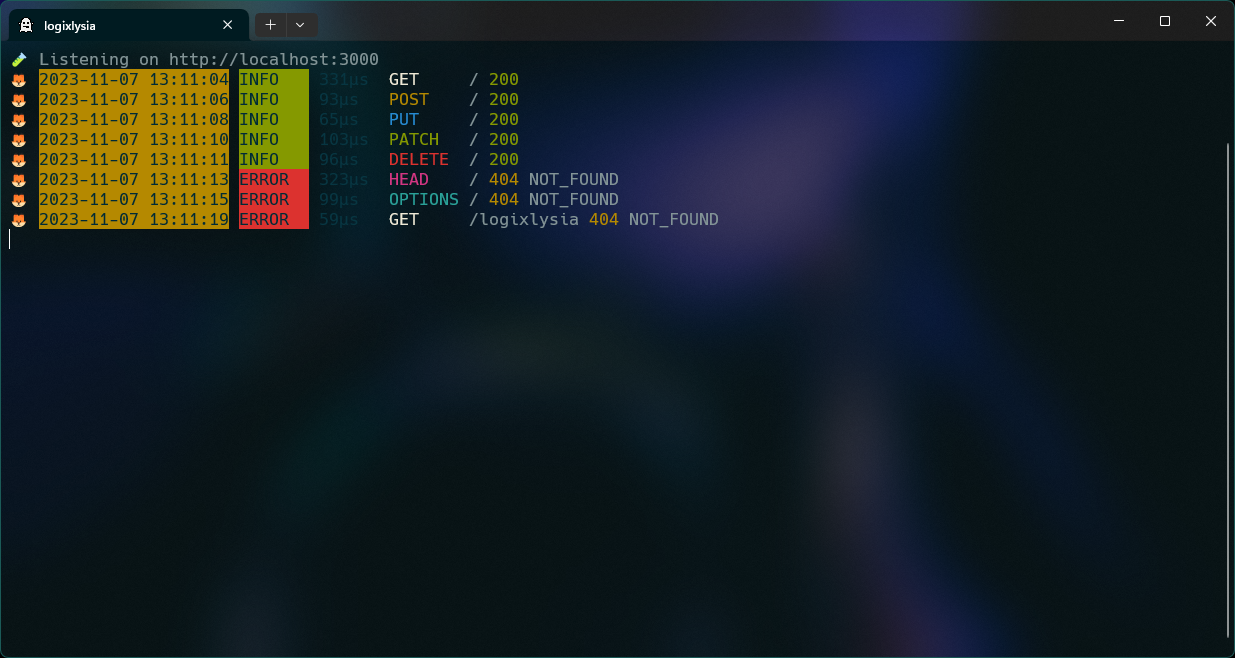
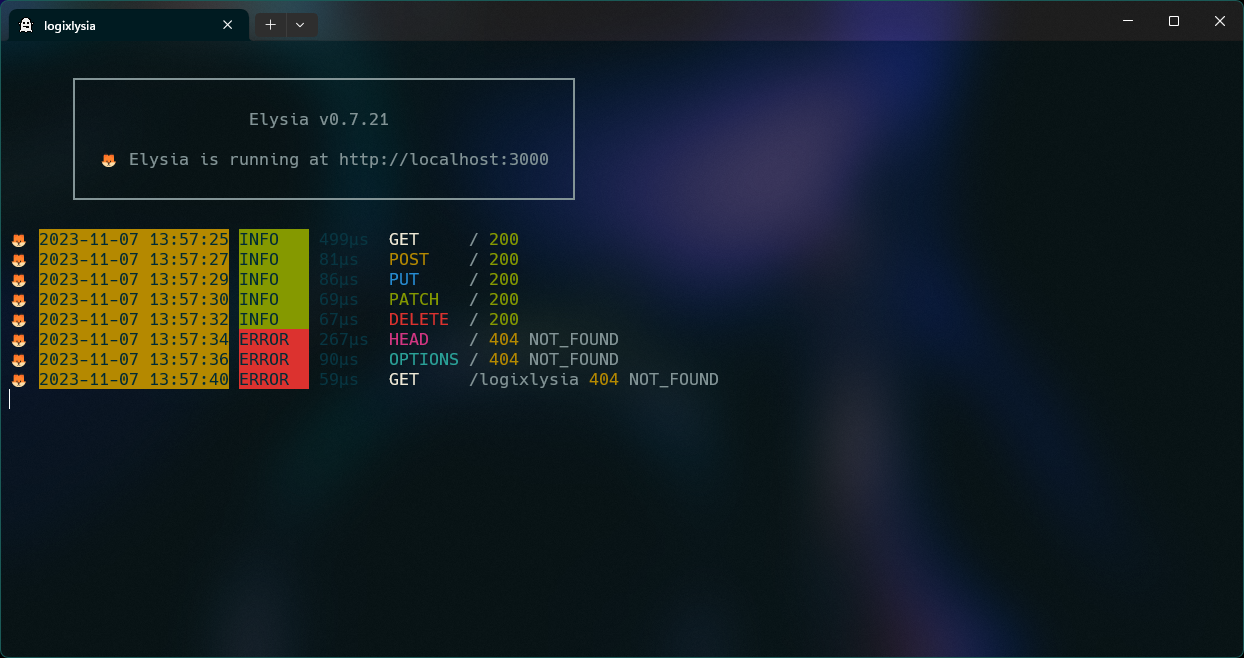
feat(*): add log on start

Changed region(s): [[0.0, 0.0304, 0.5846, 0.6079], [0.9846, 0.2432, 1.0, 0.9422], [0.1846, 0.0304, 0.2154, 0.0608]]

diff --git a/src/utils/start.ts b/src/utils/start.ts
@@ -1,0 +1,34 @@
+interface Server {
+  hostname?: string
+  port?: number
+  protocol?: string
+}
+
+function createBoxText(text: string, width: number): string {
+  const padding = ' '.repeat((width - text.length) / 2)
+  return `${padding}${text}${padding}`
+}
+
+function startString(config: Server): void {
+  const { hostname, port, protocol } = config
+  const ELYSIA_VERSION = import.meta.require('elysia/package.json').version
+  const title = `Elysia v${ELYSIA_VERSION}`
+  const message = `🦊 Elysia is running at ${protocol}://${hostname}:${port}`
+  const messageWidth = message.length
+  const boxWidth = Math.max(title.length, messageWidth) + 4
+  const border = '─'.repeat(boxWidth)
+
+  process.stdout.write('\x1Bc')
+
+  console.log(`
+      ┌${border}┐
+      │${createBoxText('', boxWidth)} │
+      │${createBoxText(title, boxWidth)} │
+      │${createBoxText('', boxWidth)} │
+      │${createBoxText(message, boxWidth)}│
+      │${createBoxText('', boxWidth)} │
+      └${border}┘
+    `)
+}
+
+export { Server, startString }

diff --git a/src/index.ts b/src/index.ts
@@ -1,5 +1,7 @@
 import Elysia from 'elysia'
 import { formatLogger } from './logger'
+import { startString } from './utils/start'
+import { Server } from 'bun'
 
 export const logger = () => {
   const log = formatLogger()
@@ -7,6 +9,9 @@ export const logger = () => {
   const elysia = new Elysia({
     name: 'Logixlysia'
   })
+    .onStart(ctx => {
+      startString(ctx.app.server as Server)
+    })
     .onRequest(ctx => {
       ctx.store = { beforeTime: process.hrtime.bigint() } as {
         beforeTime: bigint

diff --git a/example/basic.ts b/example/basic.ts
@@ -30,8 +30,5 @@ const app = new Elysia({
       message: 'Basic Example'
     }
   })
-  .listen(3000)
 
-console.log(
-  `🧪 Listening on http://${app.server!.hostname}:${app.server!.port}`
-)
+app.listen(3000)

diff --git a/README.md b/README.md
@@ -20,9 +20,7 @@ const app = new Elysia({
   name: 'Logixlysia Example'
 }).use(logger())
 
-console.log(
-  `🧪 Listening on http://${app.server!.hostname}:${app.server!.port}`
-)
+app.listen(3000)
 ```
 
 ## `📄` License
